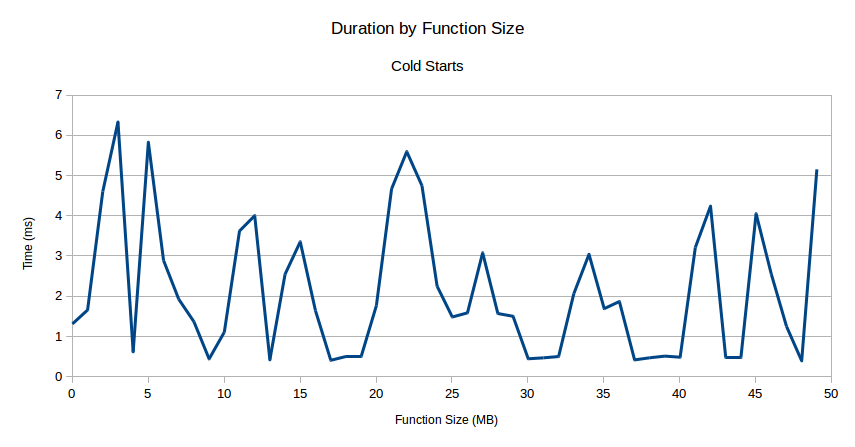
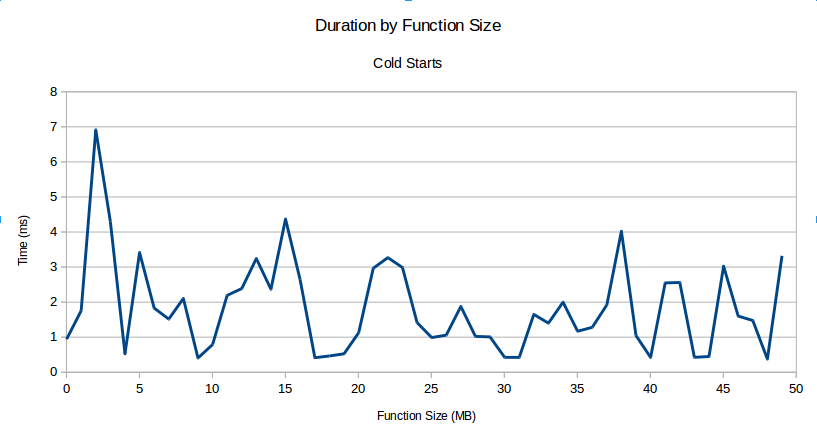
updated stats for sizes

diff --git a/results/by-size.md b/results/by-size.md
@@ -30,56 +30,56 @@ All functions are created using Chalice. Besides the default minimal package and
 
 | Function     |   Size(MB) | VPC   |   D.Mean |         Var |   Billed Mean |   Var |   Mem Mean |      Var |   Samples |
 |:-------------|-----------:|:------|---------:|------------:|--------------:|------:|-----------:|---------:|----------:|
-| psize-0-dev  |       0.01 | No    | 1.312    |  3.39182    |           100 |     0 |    22.6    | 0.3      |         5 |
-| psize-1-dev  |       1.01 | No    | 1.658    |  7.05857    |           100 |     0 |    22.6    | 0.3      |         5 |
-| psize-2-dev  |       2.01 | No    | 4.604    | 42.1327     |           100 |     0 |    22      | 0        |         5 |
-| psize-3-dev  |       3.01 | No    | 6.332    | 66.3196     |           100 |     0 |    22.4    | 0.3      |         5 |
-| psize-4-dev  |       4.01 | No    | 0.62     |  0.14515    |           100 |     0 |    22.4    | 0.3      |         5 |
-| psize-5-dev  |       5.01 | No    | 5.828    | 61.5228     |           100 |     0 |    22.2    | 0.2      |         5 |
-| psize-6-dev  |       6.01 | No    | 2.89     | 28.7479     |           100 |     0 |    22.6    | 0.3      |         5 |
-| psize-7-dev  |       7.01 | No    | 1.926    |  4.49763    |           100 |     0 |    22.8    | 0.2      |         5 |
-| psize-8-dev  |       8.01 | No    | 1.366    |  4.29673    |           100 |     0 |    23      | 0        |         5 |
-| psize-9-dev  |       9.01 | No    | 0.442    |  0.01447    |           100 |     0 |    22.6    | 0.3      |         5 |
-| psize-10-dev |      10.01 | No    | 1.108    |  2.25872    |           100 |     0 |    22.4    | 0.3      |         5 |
-| psize-11-dev |      11.01 | No    | 3.622    | 52.2329     |           100 |     0 |    22.4    | 0.3      |         5 |
-| psize-12-dev |      12.01 | No    | 4.004    | 30.5044     |           100 |     0 |    22.8    | 0.2      |         5 |
-| psize-13-dev |      13.01 | No    | 0.42     |  0.01315    |           100 |     0 |    22      | 0        |         5 |
-| psize-14-dev |      14.01 | No    | 2.546    | 21.2074     |           100 |     0 |    22.6    | 0.3      |         5 |
-| psize-15-dev |      15.01 | No    | 3.354    | 43.6344     |           100 |     0 |    22.4    | 0.3      |         5 |
-| psize-16-dev |      16.01 | No    | 1.644    |  7.74103    |           100 |     0 |    22.4    | 0.3      |         5 |
-| psize-17-dev |      17.02 | No    | 0.408    |  0.01027    |           100 |     0 |    23      | 0        |         5 |
-| psize-18-dev |      18.02 | No    | 0.493333 |  0.0410667  |           100 |     0 |    22.5    | 0.3      |         6 |
-| psize-19-dev |      19.02 | No    | 0.508333 |  0.00621667 |           100 |     0 |    22.3333 | 0.266667 |         6 |
-| psize-20-dev |      20.02 | No    | 1.766    |  8.24298    |           100 |     0 |    22.6    | 0.3      |         5 |
-| psize-21-dev |      21.02 | No    | 4.66833  | 60.8629     |           100 |     0 |    22.1667 | 0.166667 |         6 |
-| psize-22-dev |      22.02 | No    | 5.596    | 52.4129     |           100 |     0 |    22.6    | 0.3      |         5 |
-| psize-23-dev |      23.02 | No    | 4.74833  | 36.4562     |           100 |     0 |    22.3333 | 0.266667 |         6 |
-| psize-24-dev |      24.02 | No    | 2.25     | 16.5181     |           100 |     0 |    22.2    | 0.2      |         5 |
-| psize-25-dev |      25.02 | No    | 1.484    |  5.19613    |           100 |     0 |    22.6    | 0.3      |         5 |
-| psize-26-dev |      26.02 | No    | 1.586    |  6.60013    |           100 |     0 |    22.4    | 0.3      |         5 |
-| psize-27-dev |      27.02 | No    | 3.08     | 27.3002     |           100 |     0 |    22.4    | 0.3      |         5 |
-| psize-28-dev |      28.02 | No    | 1.57     |  5.89195    |           100 |     0 |    22.6    | 0.3      |         5 |
-| psize-29-dev |      29.02 | No    | 1.502    |  5.30397    |           100 |     0 |    22.2    | 0.2      |         5 |
-| psize-30-dev |      30.02 | No    | 0.446    |  0.00328    |           100 |     0 |    22.8    | 0.2      |         5 |
-| psize-31-dev |      31.02 | No    | 0.468333 |  0.0111367  |           100 |     0 |    22.3333 | 0.266667 |         6 |
-| psize-32-dev |      32.02 | No    | 0.501667 |  0.00969667 |           100 |     0 |    22.5    | 0.3      |         6 |
-| psize-33-dev |      33.02 | No    | 2.06333  | 15.2382     |           100 |     0 |    22.6667 | 0.266667 |         6 |
-| psize-34-dev |      34.02 | No    | 3.04167  | 41.4932     |           100 |     0 |    22.8333 | 0.166667 |         6 |
-| psize-35-dev |      35.02 | No    | 1.69167  |  9.67906    |           100 |     0 |    22.3333 | 0.266667 |         6 |
-| psize-36-dev |      36.02 | No    | 1.868    | 10.746      |           100 |     0 |    22.6    | 0.3      |         5 |
-| psize-37-dev |      37.02 | No    | 0.418    |  0.00367    |           100 |     0 |    22.4    | 0.3      |         5 |
-| psize-38-dev |      38.02 | No    | 0.47     |  0.00646667 |           100 |     0 |    22.5    | 0.333333 |         4 |
-| psize-39-dev |      39.02 | No    | 0.512    |  0.05207    |           100 |     0 |    22.4    | 0.3      |         5 |
-| psize-40-dev |      40.02 | No    | 0.484    |  0.02053    |           100 |     0 |    22.2    | 0.2      |         5 |
-| psize-41-dev |      41.02 | No    | 3.212    | 39.6195     |           100 |     0 |    22.4    | 0.3      |         5 |
-| psize-42-dev |      42.02 | No    | 4.24     | 60.3764     |           100 |     0 |    22.6    | 0.3      |         5 |
-| psize-43-dev |      43.02 | No    | 0.468    |  0.03212    |           100 |     0 |    22.6    | 0.3      |         5 |
-| psize-44-dev |      44.02 | No    | 0.484    |  0.01253    |           100 |     0 |    22.2    | 0.2      |         5 |
-| psize-45-dev |      45.02 | No    | 4.052    | 65.4169     |           100 |     0 |    22.2    | 0.2      |         5 |
-| psize-46-dev |      46.02 | No    | 2.55     | 22.7944     |           100 |     0 |    22      | 0        |         5 |
-| psize-47-dev |      47.02 | No    | 1.252    |  2.16672    |           100 |     0 |    22.6    | 0.3      |         5 |
-| psize-48-dev |      48.02 | No    | 0.394    |  0.00463    |           100 |     0 |    22.4    | 0.3      |         5 |
-| psize-49-dev |      49.02 | No    | 5.154    | 43.7205     |           100 |     0 |    22.8    | 0.2      |         5 |
+| psize-0-dev  |       0.01 | No    | 0.943333 |  1.89247    |           100 |     0 |    22.6667 | 0.25     |         9 |
+| psize-1-dev  |       1.01 | No    | 1.75556  |  6.79135    |           100 |     0 |    22.6667 | 0.25     |         9 |
+| psize-2-dev  |       2.01 | No    | 6.91444  | 64.4903     |           100 |     0 |    22.2222 | 0.194444 |         9 |
+| psize-3-dev  |       3.01 | No    | 4.29444  | 41.5639     |           100 |     0 |    22.5556 | 0.277778 |         9 |
+| psize-4-dev  |       4.01 | No    | 0.527778 |  0.0847444  |           100 |     0 |    22.3333 | 0.25     |         9 |
+| psize-5-dev  |       5.01 | No    | 3.41556  | 38.9484     |           100 |     0 |    22.3333 | 0.25     |         9 |
+| psize-6-dev  |       6.01 | No    | 1.83     | 15.9563     |           100 |     0 |    22.5556 | 0.277778 |         9 |
+| psize-7-dev  |       7.01 | No    | 1.51667  |  3.11617    |           100 |     0 |    22.6667 | 0.25     |         9 |
+| psize-8-dev  |       8.01 | No    | 2.10444  | 13.1402     |           100 |     0 |    22.6667 | 0.25     |         9 |
+| psize-9-dev  |       9.01 | No    | 0.406667 |  0.01005    |           100 |     0 |    22.3333 | 0.25     |         9 |
+| psize-10-dev |      10.01 | No    | 0.79     |  1.2722     |           100 |     0 |    22.3333 | 0.25     |         9 |
+| psize-11-dev |      11.01 | No    | 2.19333  | 28.9874     |           100 |     0 |    22.3333 | 0.25     |         9 |
+| psize-12-dev |      12.01 | No    | 2.38778  | 18.9271     |           100 |     0 |    22.7778 | 0.194444 |         9 |
+| psize-13-dev |      13.01 | No    | 3.24444  | 24.7624     |           100 |     0 |    22.2222 | 0.194444 |         9 |
+| psize-14-dev |      14.01 | No    | 2.36778  | 12.5094     |           100 |     0 |    22.3333 | 0.25     |         9 |
+| psize-15-dev |      15.01 | No    | 4.37     | 44.2173     |           100 |     0 |    22.4444 | 0.277778 |         9 |
+| psize-16-dev |      16.01 | No    | 2.63778  | 23.531      |           100 |     0 |    22.4444 | 0.277778 |         9 |
+| psize-17-dev |      17.02 | No    | 0.415    |  0.00557143 |           100 |     0 |    22.75   | 0.214286 |         8 |
+| psize-18-dev |      18.02 | No    | 0.465    |  0.02545    |           100 |     0 |    22.5    | 0.277778 |        10 |
+| psize-19-dev |      19.02 | No    | 0.527    |  0.0627122  |           100 |     0 |    22.5    | 0.277778 |        10 |
+| psize-20-dev |      20.02 | No    | 1.12778  |  4.69477    |           100 |     0 |    22.4444 | 0.277778 |         9 |
+| psize-21-dev |      21.02 | No    | 2.966    | 38.6438     |           100 |     0 |    22.1    | 0.1      |        10 |
+| psize-22-dev |      22.02 | No    | 3.27     | 33.8147     |           100 |     0 |    22.6667 | 0.25     |         9 |
+| psize-23-dev |      23.02 | No    | 2.986    | 25.4304     |           100 |     0 |    22.4    | 0.266667 |        10 |
+| psize-24-dev |      24.02 | No    | 1.41667  |  9.2363     |           100 |     0 |    22.4444 | 0.277778 |         9 |
+| psize-25-dev |      25.02 | No    | 0.99     |  2.94157    |           100 |     0 |    22.6667 | 0.25     |         9 |
+| psize-26-dev |      26.02 | No    | 1.05778  |  3.69557    |           100 |     0 |    22.3333 | 0.25     |         9 |
+| psize-27-dev |      27.02 | No    | 1.87778  | 15.6831     |           100 |     0 |    22.5556 | 0.277778 |         9 |
+| psize-28-dev |      28.02 | No    | 1.02222  |  3.36879    |           100 |     0 |    22.3333 | 0.25     |         9 |
+| psize-29-dev |      29.02 | No    | 1.00889  |  2.99709    |           100 |     0 |    22.4444 | 0.277778 |         9 |
+| psize-30-dev |      30.02 | No    | 0.425556 |  0.00540278 |           100 |     0 |    22.7778 | 0.194444 |         9 |
+| psize-31-dev |      31.02 | No    | 0.424    |  0.0111156  |           100 |     0 |    22.5    | 0.277778 |        10 |
+| psize-32-dev |      32.02 | No    | 1.651    | 14.2211     |           100 |     0 |    22.5    | 0.277778 |        10 |
+| psize-33-dev |      33.02 | No    | 1.401    |  9.1983     |           100 |     0 |    22.5    | 0.277778 |        10 |
+| psize-34-dev |      34.02 | No    | 1.999    | 24.8653     |           100 |     0 |    22.7    | 0.233333 |        10 |
+| psize-35-dev |      35.02 | No    | 1.17     |  5.83164    |           100 |     0 |    22.3    | 0.233333 |        10 |
+| psize-36-dev |      36.02 | No    | 1.28111  |  5.89641    |           100 |     0 |    22.6667 | 0.25     |         9 |
+| psize-37-dev |      37.02 | No    | 1.92     | 20.7986     |           100 |     0 |    22.4444 | 0.277778 |         9 |
+| psize-38-dev |      38.02 | No    | 4.02111  | 22.0913     |           100 |     0 |    22.4444 | 0.277778 |         9 |
+| psize-39-dev |      39.02 | No    | 1.04667  |  2.89245    |           100 |     0 |    22.4444 | 0.277778 |         9 |
+| psize-40-dev |      40.02 | No    | 0.42375  |  0.0130839  |           100 |     0 |    22.375  | 0.267857 |         8 |
+| psize-41-dev |      41.02 | No    | 2.54889  | 22.9645     |           100 |     0 |    22.4444 | 0.277778 |         9 |
+| psize-42-dev |      42.02 | No    | 2.56     | 34.1671     |           100 |     0 |    22.5556 | 0.277778 |         9 |
+| psize-43-dev |      43.02 | No    | 0.425556 |  0.0200278  |           100 |     0 |    22.6667 | 0.25     |         9 |
+| psize-44-dev |      44.02 | No    | 0.448889 |  0.00906111 |           100 |     0 |    22.3333 | 0.25     |         9 |
+| psize-45-dev |      45.02 | No    | 3.02556  | 36.6961     |           100 |     0 |    22.3333 | 0.25     |         9 |
+| psize-46-dev |      46.02 | No    | 1.60111  | 12.6644     |           100 |     0 |    22.1111 | 0.111111 |         9 |
+| psize-47-dev |      47.02 | No    | 1.47667  |  4.05897    |           100 |     0 |    22.5556 | 0.277778 |         9 |
+| psize-48-dev |      48.02 | No    | 0.376667 |  0.0042     |           100 |     0 |    22.6667 | 0.25     |         9 |
+| psize-49-dev |      49.02 | No    | 3.32     | 27.1021     |           100 |     0 |    22.6667 | 0.25     |         9 |
 
 ### Warm-start statistics
 
